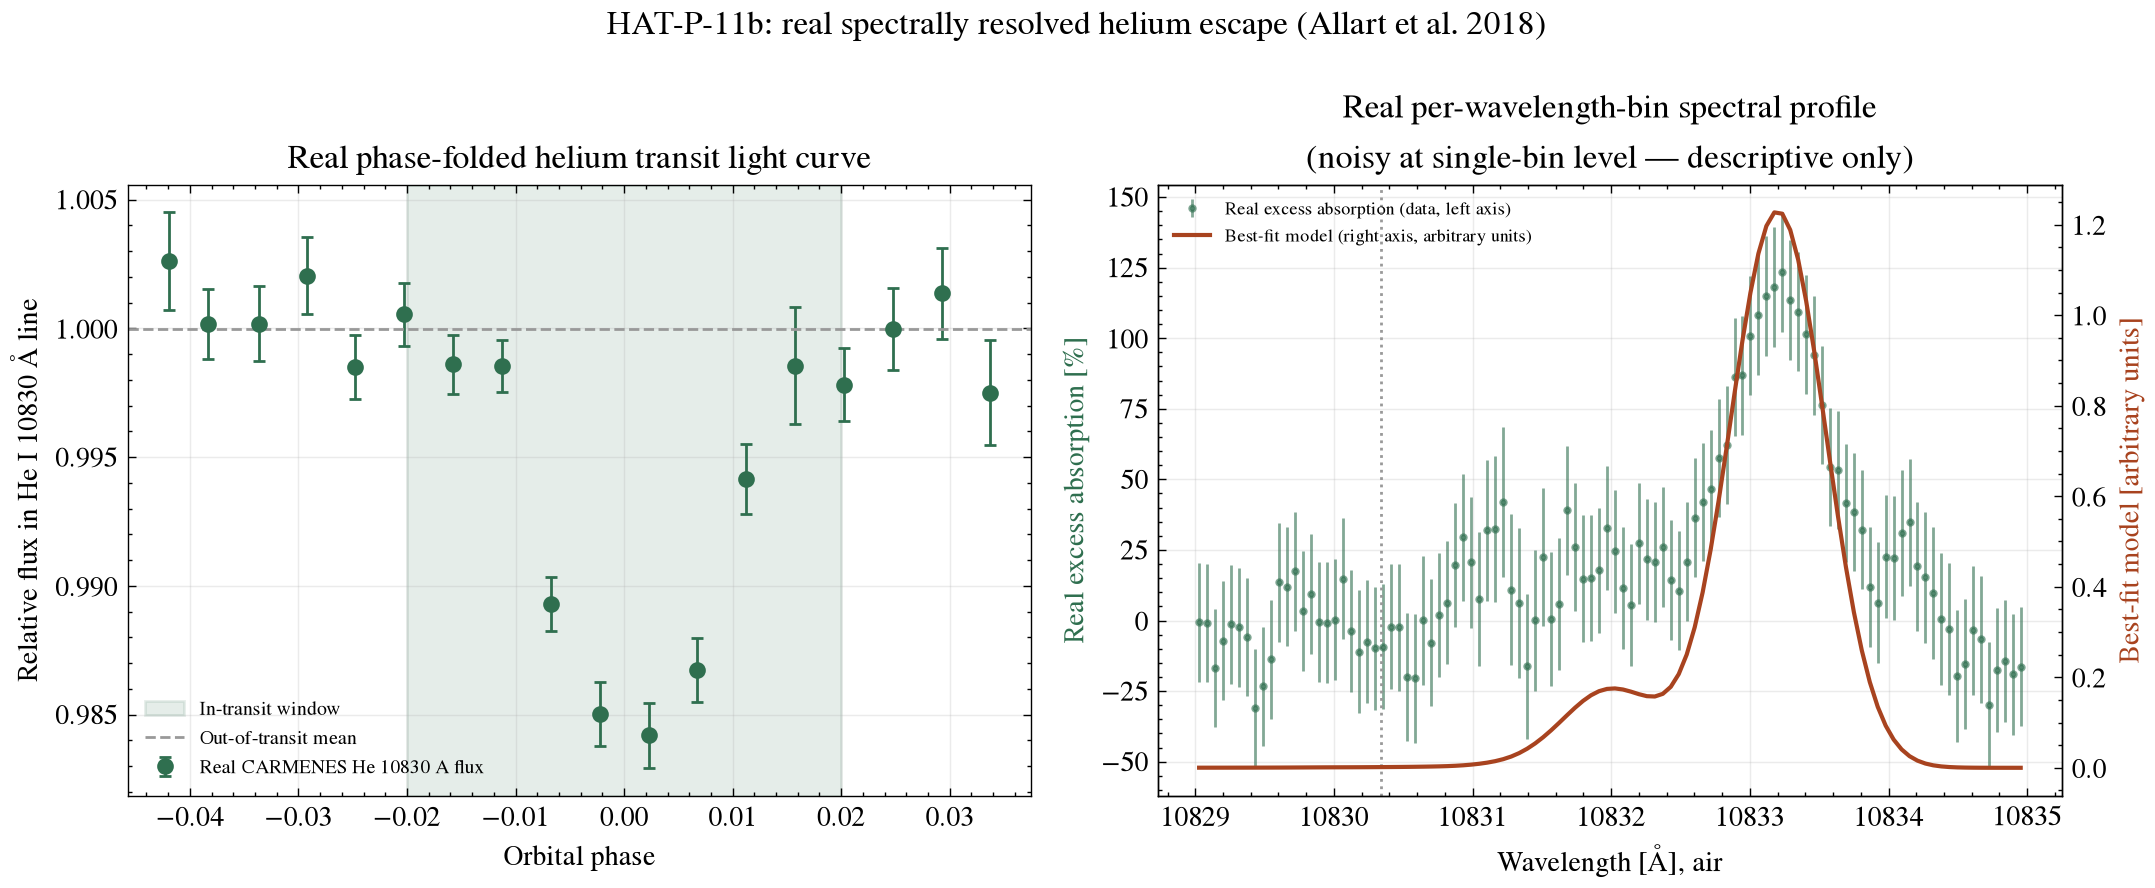
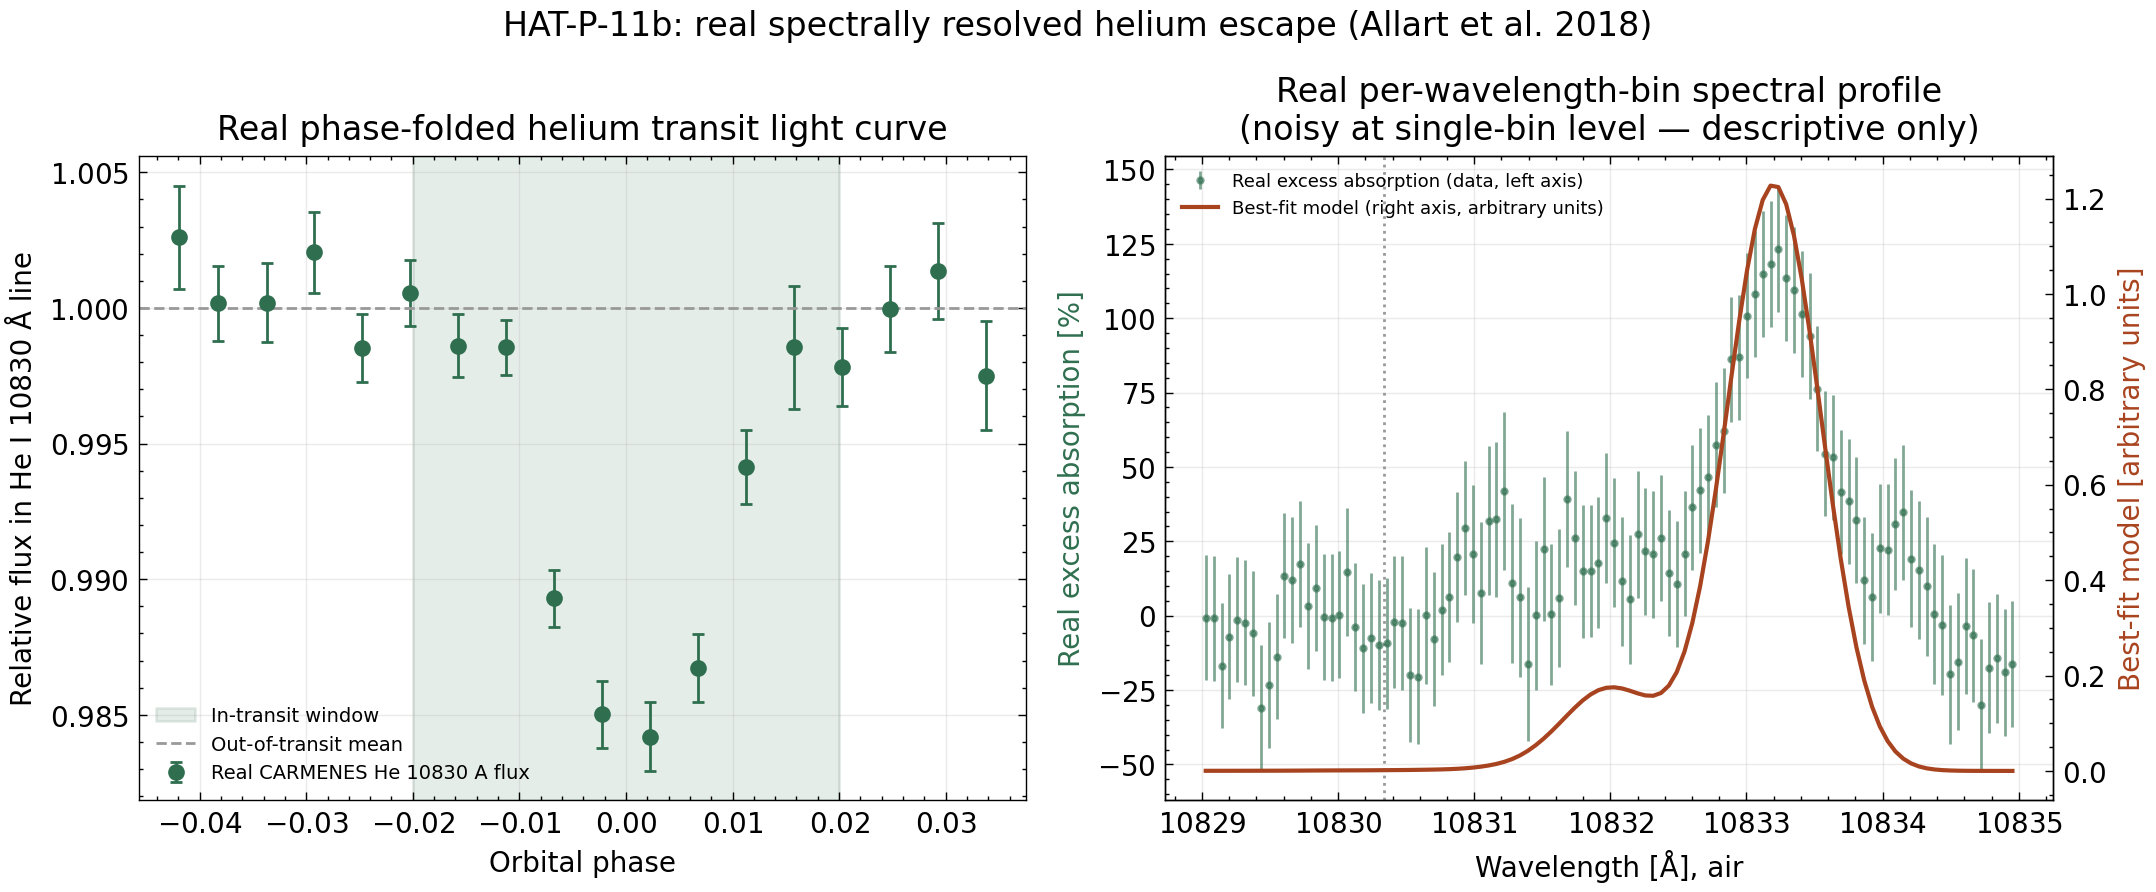
research: audit helium dip specification sensitivity

diff --git a/scripts/analyze_sensitivity.py b/scripts/analyze_sensitivity.py
@@ -1,0 +1,131 @@
+"""Specification sensitivity for the descriptive HAT-P-11 b helium dip."""
+
+from __future__ import annotations
+
+import csv
+from itertools import product
+from pathlib import Path
+import sys
+
+import matplotlib
+matplotlib.use("Agg")
+import matplotlib.pyplot as plt
+import numpy as np
+
+ROOT = Path(__file__).resolve().parents[1]
+sys.path.insert(0, str(ROOT / "scripts"))
+import analyze_spectrum as spectrum
+
+FIGURES = ROOT / "figures"
+MULTIVERSE_FILE = FIGURES / "phase_window_multiverse.csv"
+JACKKNIFE_FILE = FIGURES / "phase_point_jackknife.csv"
+SUMMARY_FILE = FIGURES / "sensitivity_summary.csv"
+FIGURE_FILE = FIGURES / "hatp11b_sensitivity_audit.png"
+
+
+def mean_and_error(values: np.ndarray, errors: np.ndarray, rule: str) -> tuple[float, float]:
+    weights = 1.0 / errors**2 if rule == "inverse_variance" else np.ones(len(values))
+    normalized = weights / weights.sum()
+    return float(normalized @ values), float(np.sqrt(np.sum((normalized * errors) ** 2)))
+
+
+def estimate(flux: np.ndarray, errors: np.ndarray, in_mask: np.ndarray, out_mask: np.ndarray, rule: str) -> dict[str, float]:
+    inside, inside_error = mean_and_error(flux[in_mask], errors[in_mask], rule)
+    outside, outside_error = mean_and_error(flux[out_mask], errors[out_mask], rule)
+    depth = (outside - inside) * 100.0
+    depth_error = np.hypot(inside_error, outside_error) * 100.0
+    return {"depth_percent": depth, "formal_error_percent": depth_error, "formal_snr": depth / depth_error}
+
+
+def write_csv(path: Path, rows: list[dict[str, object]]) -> None:
+    with path.open("w", newline="", encoding="utf-8") as handle:
+        writer = csv.DictWriter(handle, fieldnames=list(rows[0]))
+        writer.writeheader(); writer.writerows(rows)
+
+
+def main() -> dict[str, object]:
+    FIGURES.mkdir(exist_ok=True)
+    phase, flux, errors = spectrum.load_lightcurve()
+    rows: list[dict[str, object]] = []
+    for half_width, out_minimum, weighting, baseline_side in product(
+        (0.012, 0.016, 0.020, 0.024, 0.028),
+        (0.024, 0.028, 0.032),
+        ("inverse_variance", "uniform"),
+        ("both", "pre", "post"),
+    ):
+        if out_minimum < half_width:
+            continue
+        in_mask = np.abs(phase) < half_width
+        out_mask = np.abs(phase) >= out_minimum
+        if baseline_side == "pre":
+            out_mask &= phase < 0
+        elif baseline_side == "post":
+            out_mask &= phase > 0
+        if in_mask.sum() < 3 or out_mask.sum() < 2:
+            continue
+        rows.append({
+            "in_transit_half_width_phase": half_width,
+            "out_of_transit_minimum_abs_phase": out_minimum,
+            "weighting": weighting,
+            "baseline_side": baseline_side,
+            "n_in": int(in_mask.sum()),
+            "n_out": int(out_mask.sum()),
+            **estimate(flux, errors, in_mask, out_mask, weighting),
+        })
+    write_csv(MULTIVERSE_FILE, rows)
+
+    default_in = np.abs(phase) < 0.020
+    default_out = np.abs(phase) >= 0.024
+    jackknife: list[dict[str, object]] = []
+    for omitted in np.where(default_in | default_out)[0]:
+        in_mask, out_mask = default_in.copy(), default_out.copy()
+        group = "in" if in_mask[omitted] else "out"
+        in_mask[omitted] = False; out_mask[omitted] = False
+        jackknife.append({
+            "omitted_index": int(omitted),
+            "omitted_phase": float(phase[omitted]),
+            "omitted_group": group,
+            **estimate(flux, errors, in_mask, out_mask, "inverse_variance"),
+        })
+    write_csv(JACKKNIFE_FILE, jackknife)
+
+    depths = np.asarray([row["depth_percent"] for row in rows])
+    snr = np.asarray([row["formal_snr"] for row in rows])
+    jack_depths = np.asarray([row["depth_percent"] for row in jackknife])
+    summary = [
+        {"quantity": "predeclared_designs", "value": len(rows), "interpretation": "all valid phase-window/weight/baseline combinations"},
+        {"quantity": "depth_min_percent", "value": float(depths.min()), "interpretation": "estimator-choice envelope"},
+        {"quantity": "depth_median_percent", "value": float(np.median(depths)), "interpretation": "not a retrieval"},
+        {"quantity": "depth_max_percent", "value": float(depths.max()), "interpretation": "estimator-choice envelope"},
+        {"quantity": "all_depths_positive", "value": bool(np.all(depths > 0)), "interpretation": "directional stability"},
+        {"quantity": "formal_snr_min", "value": float(snr.min()), "interpretation": "independence-conditioned only"},
+        {"quantity": "formal_snr_max", "value": float(snr.max()), "interpretation": "not detection significance"},
+        {"quantity": "jackknife_depth_min_percent", "value": float(jack_depths.min()), "interpretation": "default masks, one point deleted"},
+        {"quantity": "jackknife_depth_max_percent", "value": float(jack_depths.max()), "interpretation": "default masks, one point deleted"},
+    ]
+    write_csv(SUMMARY_FILE, summary)
+
+    fig, axes = plt.subplots(1, 2, figsize=(12, 4.7), constrained_layout=True)
+    ax = axes[0]
+    colors = {"both": "#155e75", "pre": "#b45309", "post": "#7c3aed"}
+    for side in colors:
+        values = [row["depth_percent"] for row in rows if row["baseline_side"] == side]
+        ax.hist(values, bins=np.linspace(depths.min() - .03, depths.max() + .03, 17), alpha=.58, label=side, color=colors[side])
+    ax.axvline(1.08, color="#111827", ls="--", label="published 1.08%")
+    ax.set(xlabel="Descriptive in-minus-out absorption [%]", ylabel="Analysis designs", title="74-choice specification multiverse")
+    ax.legend(frameon=False); ax.grid(axis="x", alpha=.2)
+    ax = axes[1]
+    ax.plot([row["omitted_phase"] for row in jackknife], jack_depths, "o", color="#155e75")
+    ax.axhspan(depths.min(), depths.max(), color="#b45309", alpha=.13, label="multiverse envelope")
+    ax.axhline(1.08, color="#111827", ls="--", label="published estimator")
+    ax.set(xlabel="Omitted orbital phase", ylabel="Descriptive absorption [%]", title="Leave-one-phase-point-out audit")
+    ax.legend(frameon=False); ax.grid(alpha=.2)
+    fig.suptitle("HAT-P-11 b: the dip direction is stable; its magnitude is estimator-dependent", fontsize=14, weight="bold")
+    fig.savefig(FIGURE_FILE, dpi=190)
+    plt.close(fig)
+    return {"multiverse": rows, "jackknife": jackknife, "summary": summary}
+
+
+if __name__ == "__main__":
+    result = main(); values = np.asarray([row["depth_percent"] for row in result["multiverse"]])
+    print(f"{len(values)} designs: {values.min():.3f}-{values.max():.3f}% absorption; all positive={bool(np.all(values > 0))}")

diff --git a/tests/test_sensitivity.py b/tests/test_sensitivity.py
@@ -1,0 +1,18 @@
+from pathlib import Path
+import sys
+import numpy as np
+
+ROOT = Path(__file__).resolve().parents[1]
+sys.path.insert(0, str(ROOT / "scripts"))
+import analyze_sensitivity as sensitivity
+
+
+def test_predeclared_designs_keep_positive_dip_but_expose_choice_sensitivity():
+    result = sensitivity.main()
+    depth = np.asarray([row["depth_percent"] for row in result["multiverse"]])
+    assert len(depth) == 74
+    assert np.all(depth > 0)
+    assert depth.min() < 0.55
+    assert depth.max() > 1.15
+    for path in (sensitivity.MULTIVERSE_FILE, sensitivity.JACKKNIFE_FILE, sensitivity.SUMMARY_FILE, sensitivity.FIGURE_FILE):
+        assert Path(path).is_file() and Path(path).stat().st_size > 200

diff --git a/scripts/analyze_spectrum.py b/scripts/analyze_spectrum.py
@@ -37,6 +37,7 @@ import scienceplots  # noqa: F401 (registers 'science' style)
 import numpy as np
 
 plt.style.use(["science", "no-latex"])
+plt.rcParams["font.family"] = "DejaVu Sans"
 
 DATA_DIR = Path(__file__).resolve().parents[1] / "data"
 FIG_DIR = Path(__file__).resolve().parents[1] / "figures"
